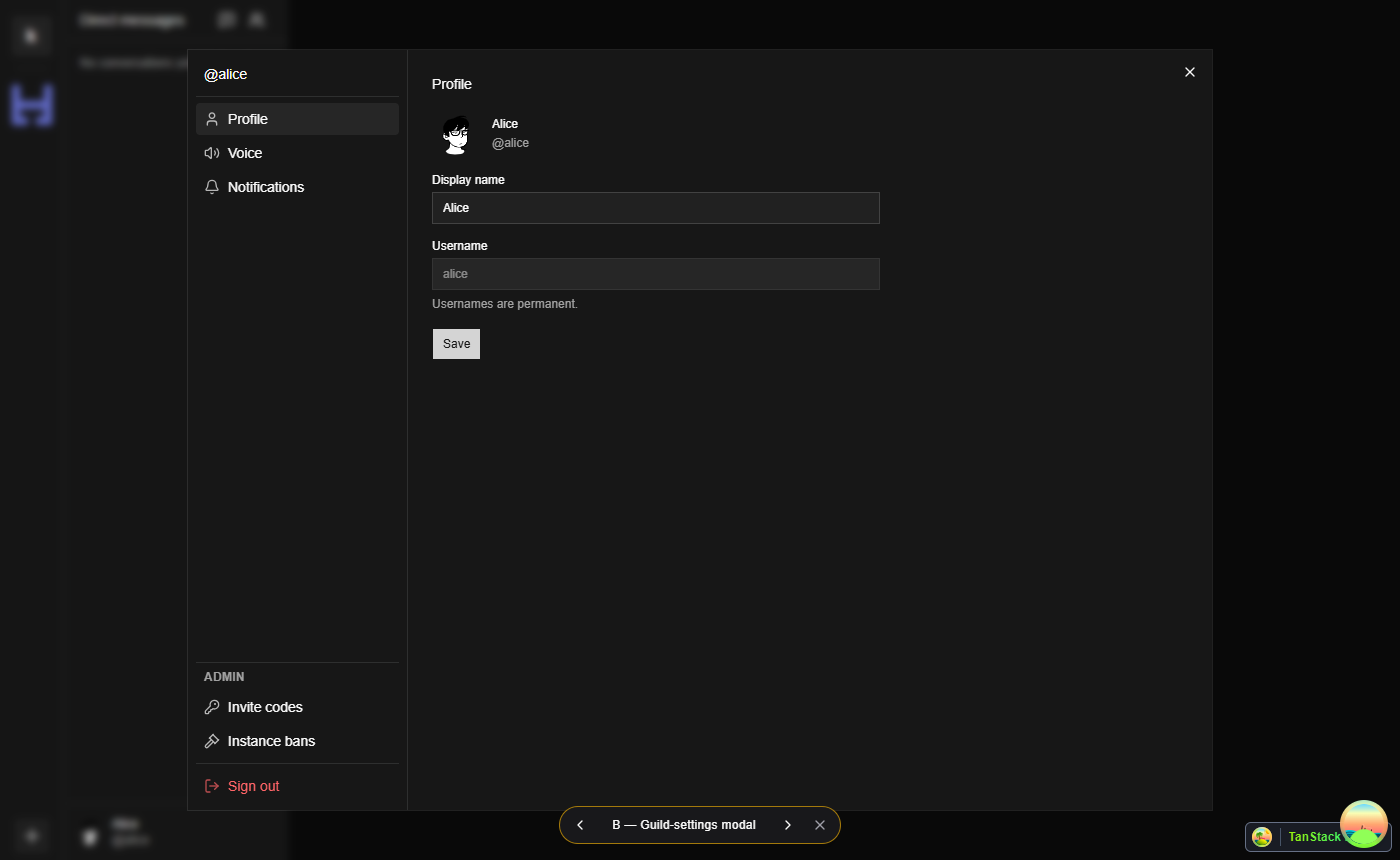
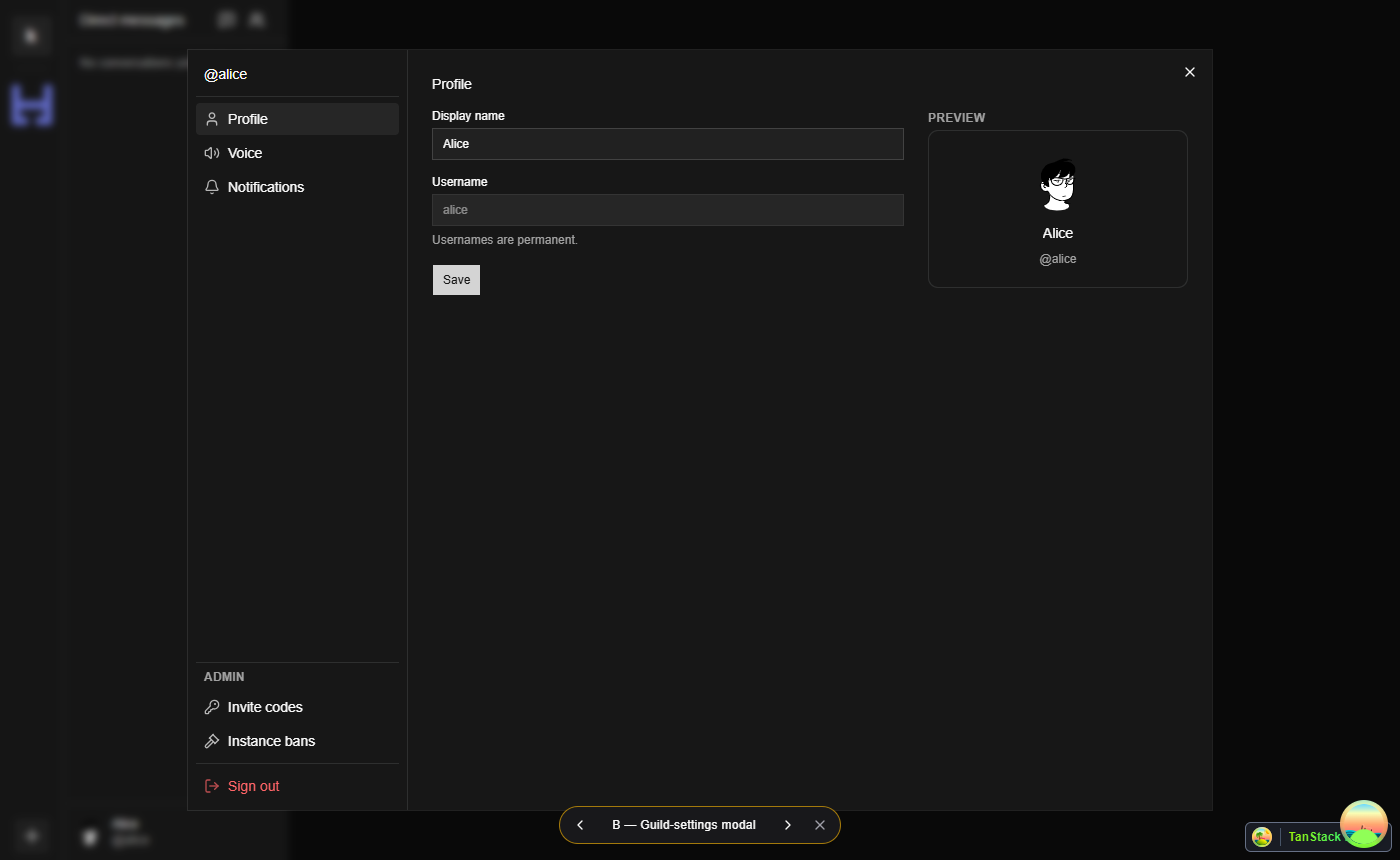
prototype(web): profile pane form + live preview card, no dead space (#77)
Form column left, live preview card right (name edits reflect instantly)
— fills the 5xl shell instead of a max-w-md strip.

Changed region(s): [[0.3071, 0.1209, 0.43, 0.4233], [0.7371, 0.1814, 0.7679, 0.3023], [0.6757, 0.1209, 0.7064, 0.1512]]

diff --git a/apps/web/src/components/user-settings-prototype/shared.tsx b/apps/web/src/components/user-settings-prototype/shared.tsx
@@ -134,30 +134,34 @@ export function ProfileFields({
   const setDisplayName = usePrototypeStore((s) => s.setDisplayName);
 
   return (
-    <div className="flex max-w-md flex-col gap-4">
-      <div className="flex items-center gap-3">
-        <Avatar seed={username} src={image} className="size-12" />
+    <div className="grid grid-cols-1 items-start gap-6 sm:grid-cols-[minmax(0,1fr)_260px]">
+      <div className="flex flex-col gap-4">
+        <div className="flex flex-col gap-1.5">
+          <Label htmlFor="proto-display-name">Display name</Label>
+          <Input
+            id="proto-display-name"
+            value={displayName}
+            onChange={(e) => setDisplayName(e.target.value)}
+          />
+        </div>
+        <div className="flex flex-col gap-1.5">
+          <Label htmlFor="proto-username">Username</Label>
+          <Input id="proto-username" value={username} disabled />
+          <p className="text-xs text-muted-foreground">Usernames are permanent.</p>
+        </div>
         <div>
-          <div className="font-medium">{displayName}</div>
-          <div className="text-muted-foreground">@{username}</div>
+          <Button onClick={() => toast.success("Prototype — nothing was saved.")}>Save</Button>
         </div>
       </div>
-      <div className="flex flex-col gap-1.5">
-        <Label htmlFor="proto-display-name">Display name</Label>
-        <Input
-          id="proto-display-name"
-          value={displayName}
-          onChange={(e) => setDisplayName(e.target.value)}
-        />
-      </div>
-      <div className="flex flex-col gap-1.5">
-        <Label htmlFor="proto-username">Username</Label>
-        <Input id="proto-username" value={username} disabled />
-        <p className="text-xs text-muted-foreground">Usernames are permanent.</p>
-      </div>
-      <div>
-        <Button onClick={() => toast.success("Prototype — nothing was saved.")}>Save</Button>
-      </div>
+
+      {/* Live preview fills what was dead space — edits to the name reflect instantly. */}
+      <FieldGroup title="Preview">
+        <div className="flex flex-col items-center gap-2 rounded-lg border border-sidebar-border bg-sidebar p-5">
+          <Avatar seed={username} src={image} className="size-16" />
+          <div className="max-w-full truncate text-sm font-medium">{displayName}</div>
+          <div className="text-xs text-muted-foreground">@{username}</div>
+        </div>
+      </FieldGroup>
     </div>
   );
 }
